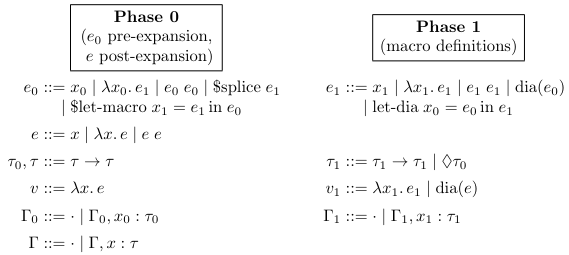
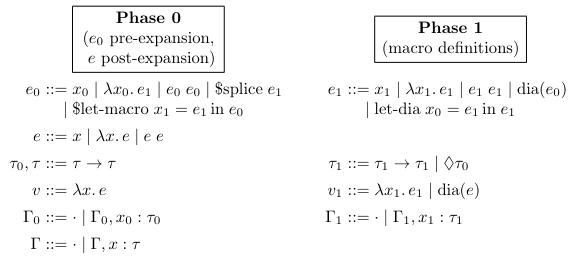
fix let-dia's syntax

diff --git a/latex/staged-diamond-calculus.tex b/latex/staged-diamond-calculus.tex
@@ -45,7 +45,7 @@
             \mid & \text{\$let-macro}\;x_1 = e_1\,\text{in}\;e_0
                  & \hspace{2em}
                  & 
-            \mid & \text{let-dia}\;x_0 = e_0\,\text{in}\;e_1
+            \mid & \text{let-dia}\;x_0 = e_1\,\text{in}\;e_1
                 \vspace{1ex}
                 \\
            e ::= & x
